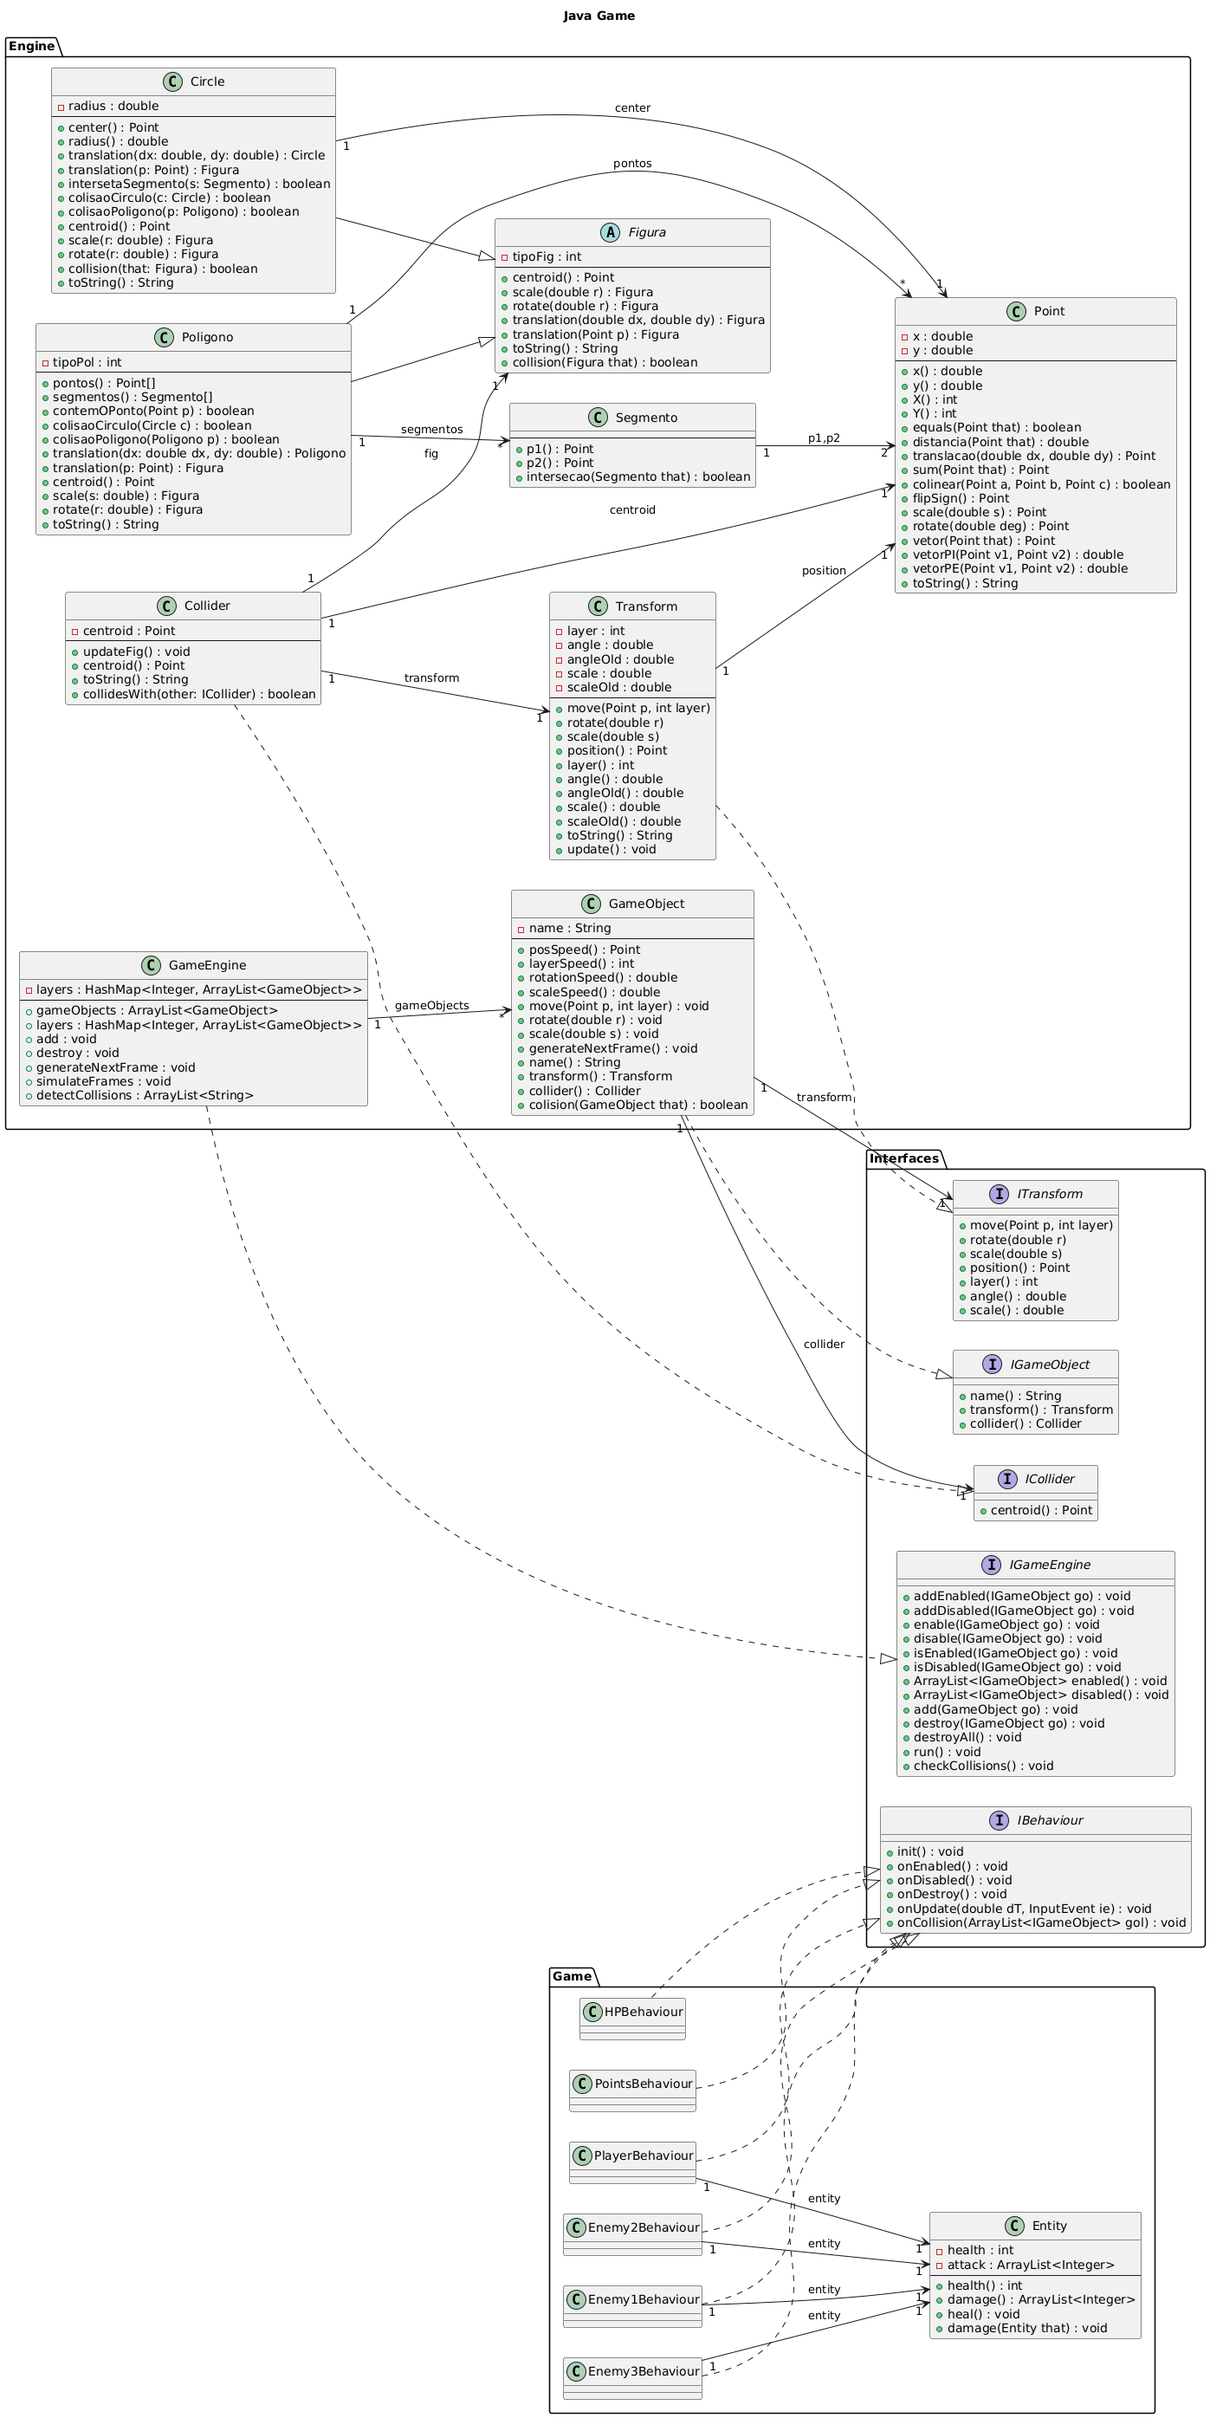
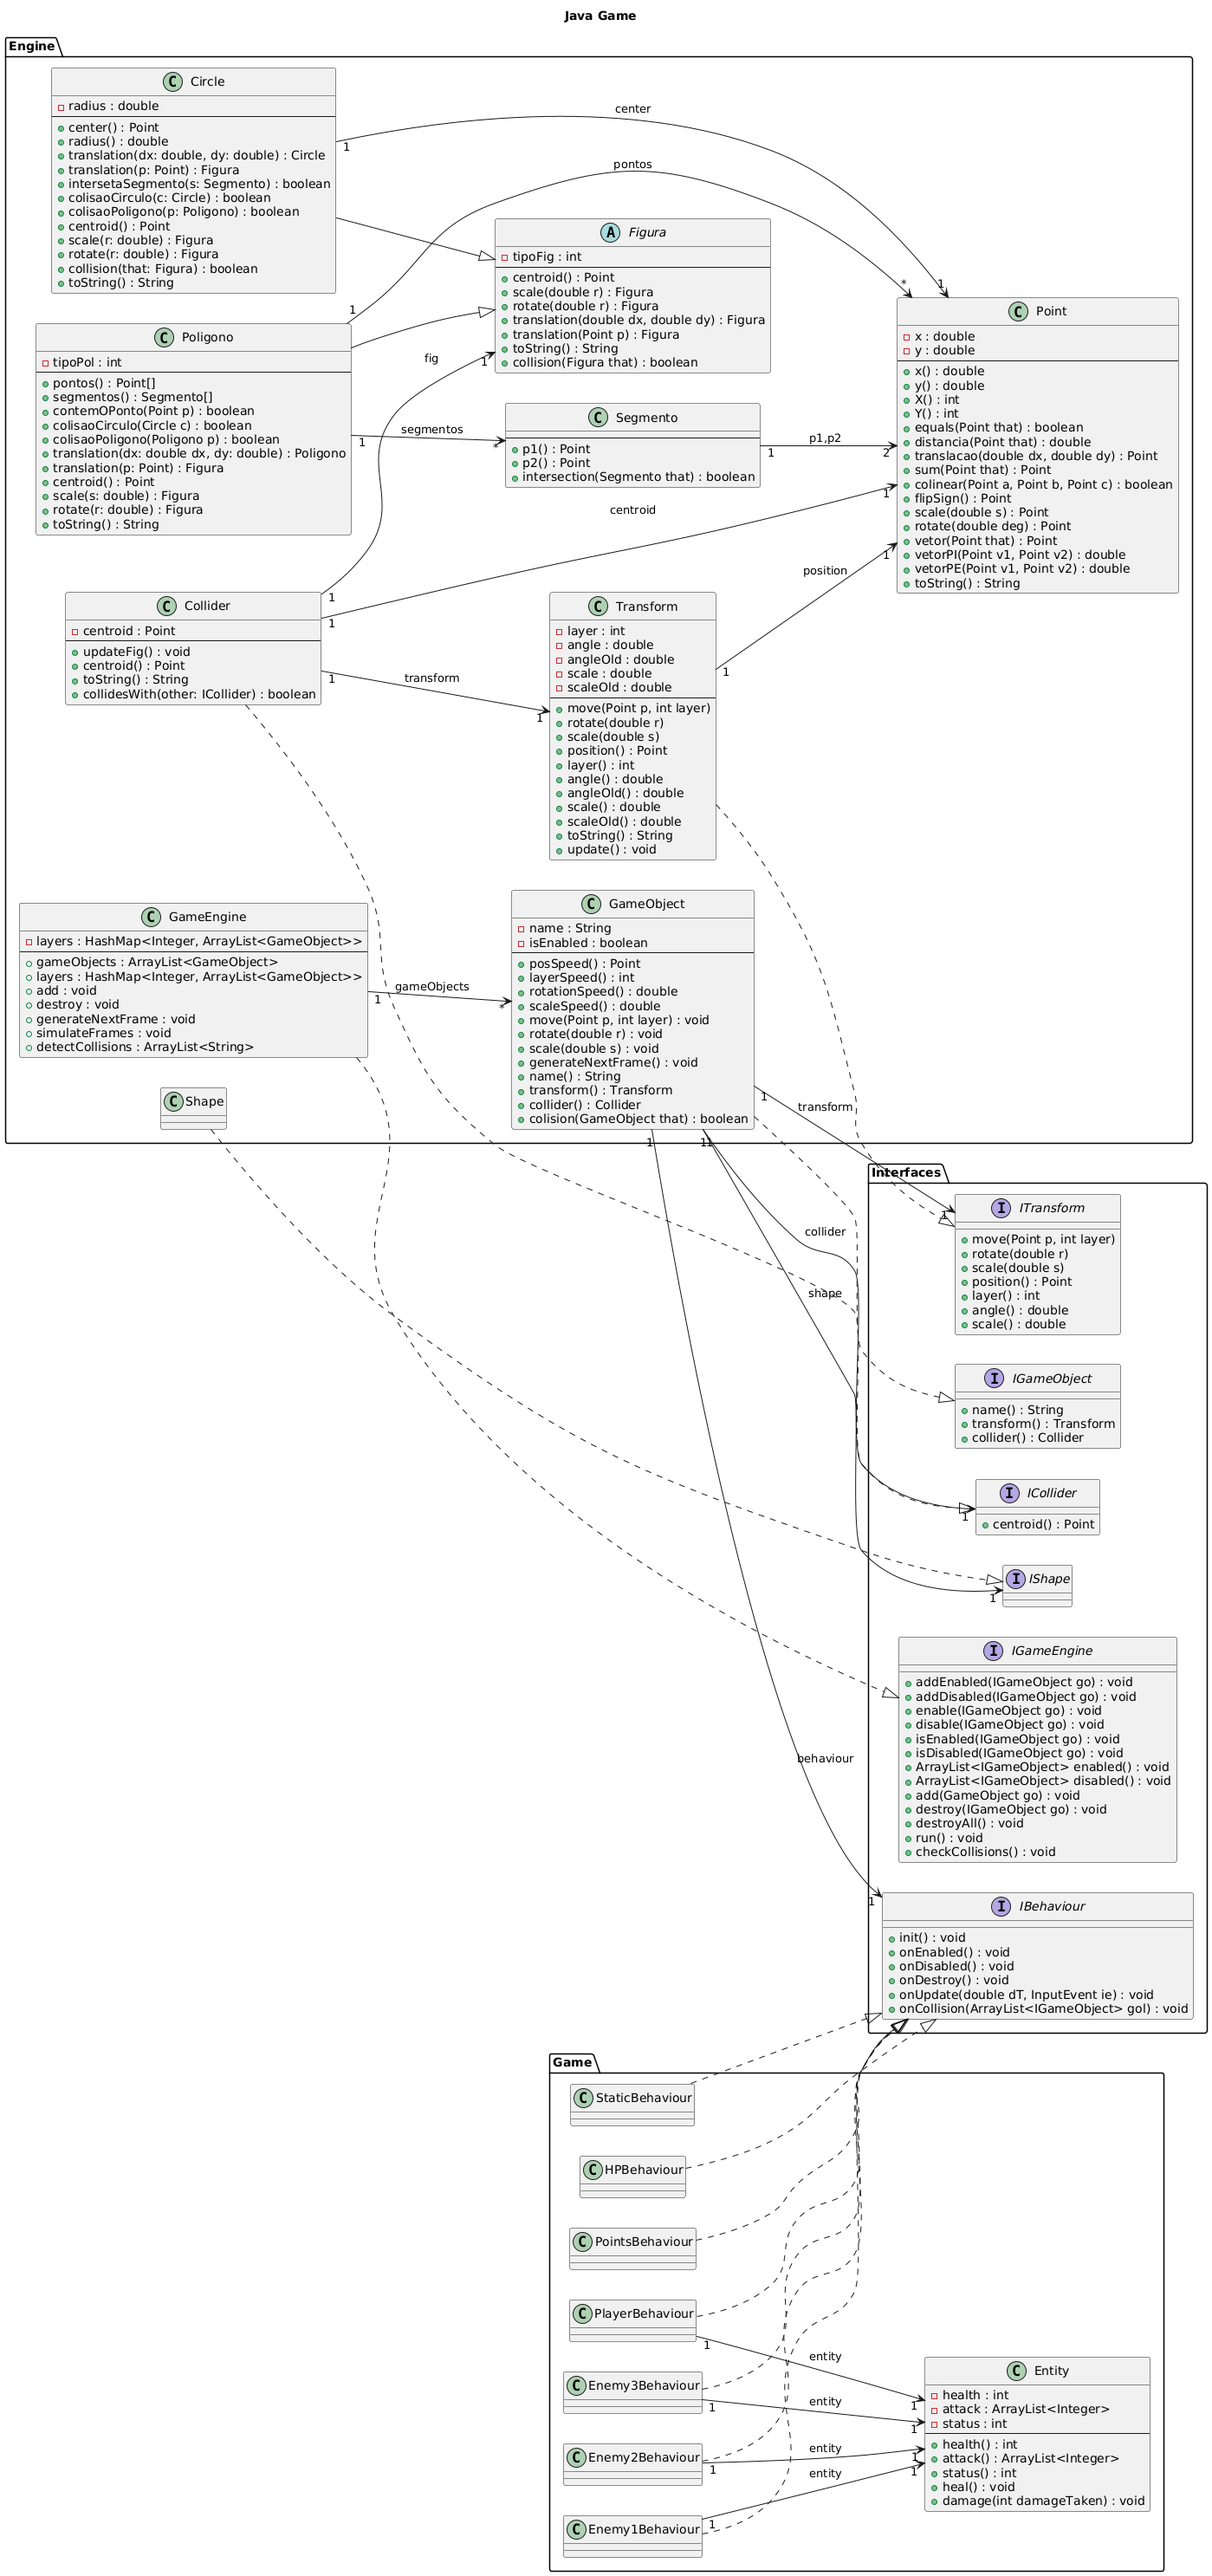
UML update

diff --git a/README.md b/README.md
@@ -1,14 +1,6 @@
 # Game Engine in Java
 
 ## TO DO
-- Completar cada Behaviour
-- GameObject tem um IBehaviour e todos os behaviours têm um GameObject
-- Velocidade tem de estar no Behaviour
-- StaticBehaviour para background, walls, ground
-- Adicionar Estados a Entity
-- isEnabled flag no GameObject 
-- JUnit
-- Implementar as classes do UML
 
 
 ## Timeline
